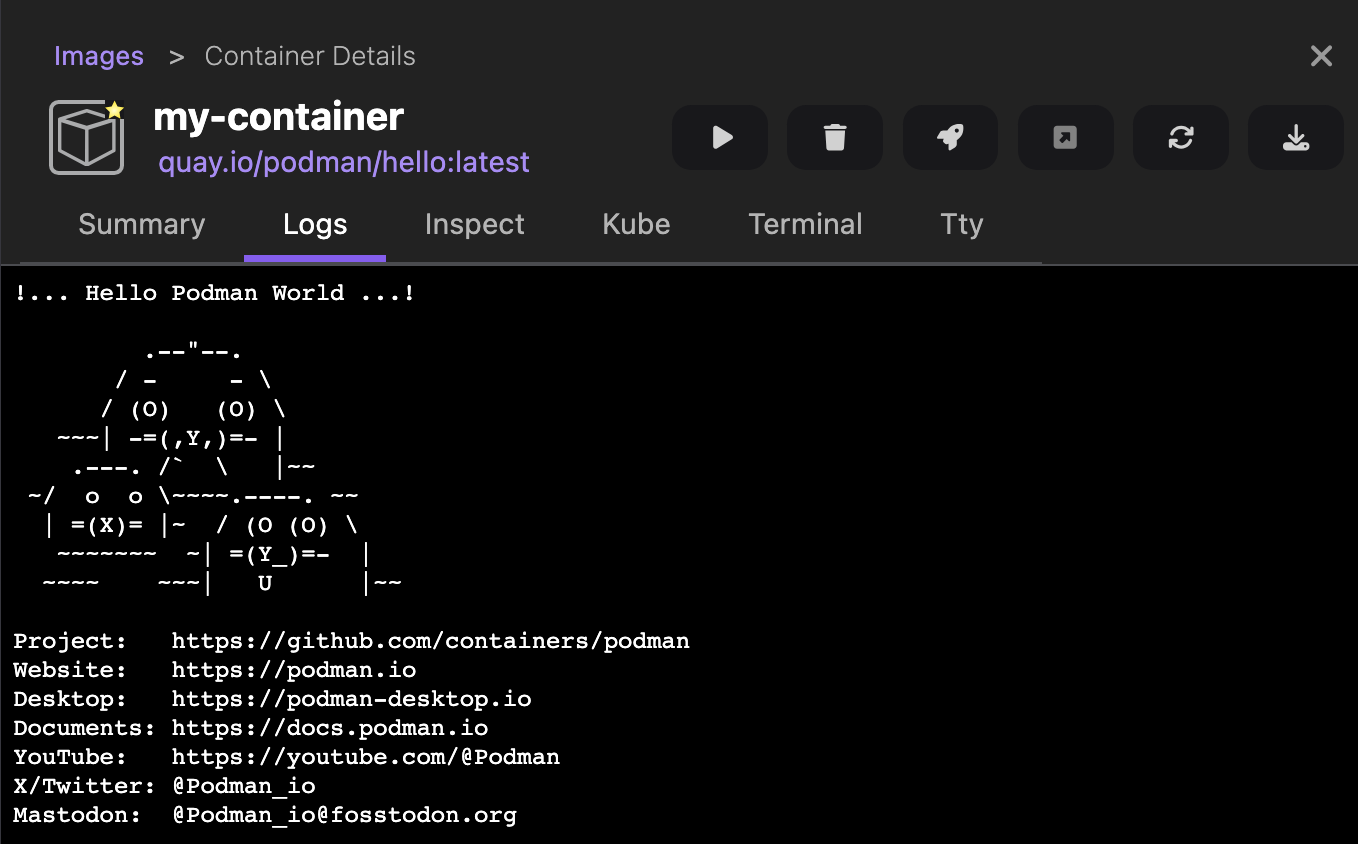
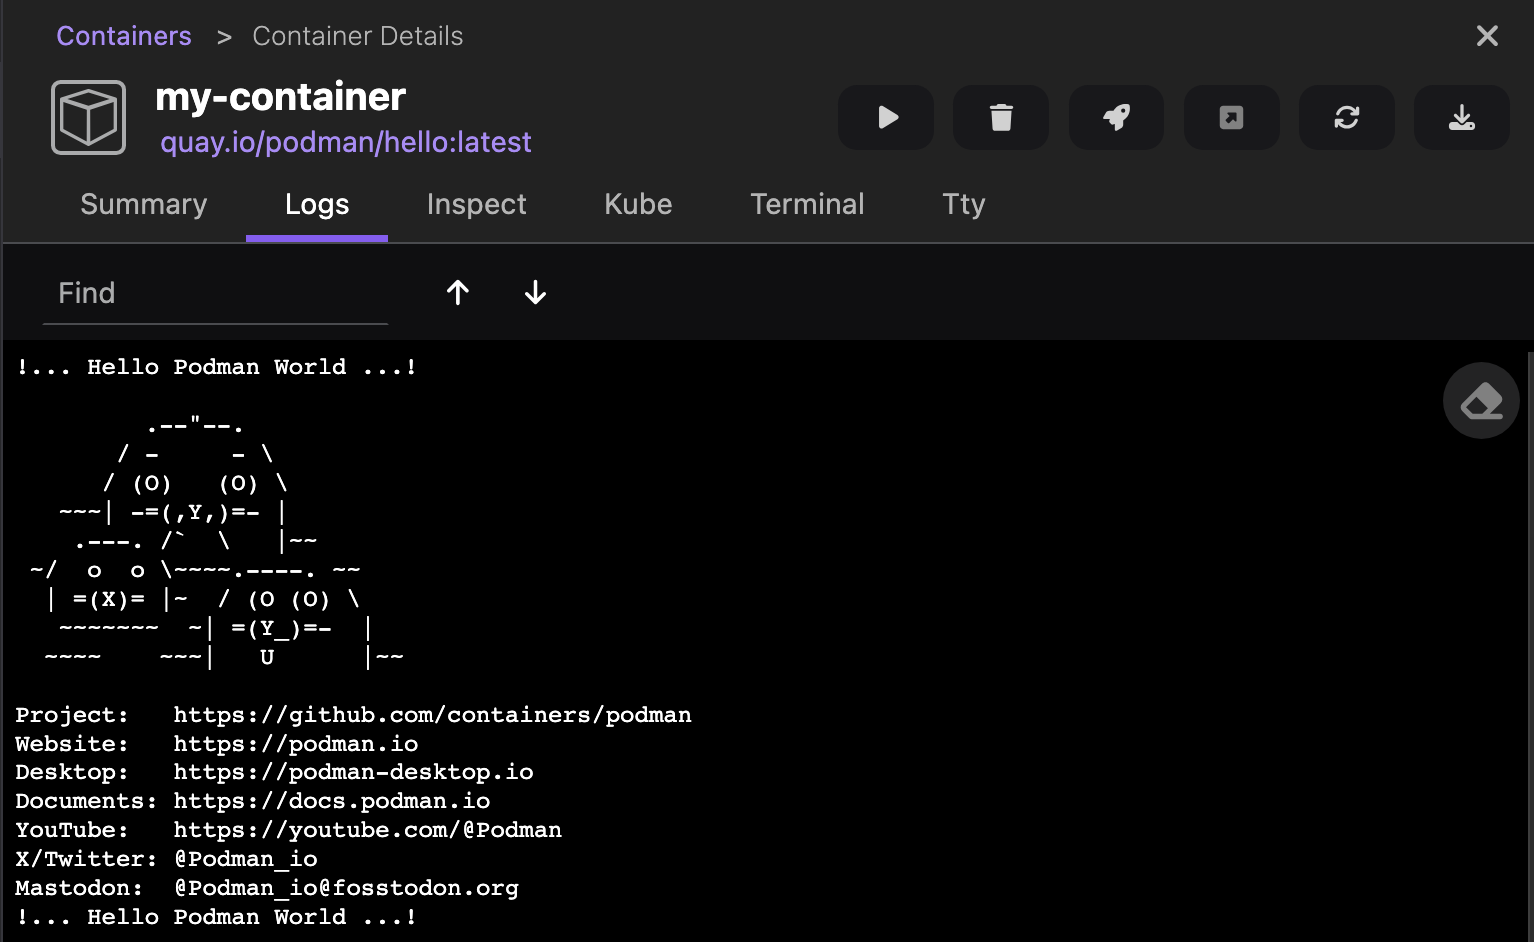
docs(website): highlighted the search functionality in the container … (#10895)
docs(website): highlighted the search functionality in the container logs

diff --git a/website/docs/containers/viewing-container-logs.md b/website/docs/containers/viewing-container-logs.md
@@ -22,7 +22,8 @@ Make sure you have:
 1. Go to the **Containers** component page.
 1. Click the name of the container, such as `python-app`.
    ![python app container](img/python-app-container.png)
-1. Analyze the logs of the container.
+1. Select the **Logs** tab to analyze the logs of the container.
+1. Optional: Type any keyword in the box to search for it in the logs.
    ![analyze the logs](img/analyzing-the-logs.png)
 1. Click the **close** icon on the right side of the page.
 
